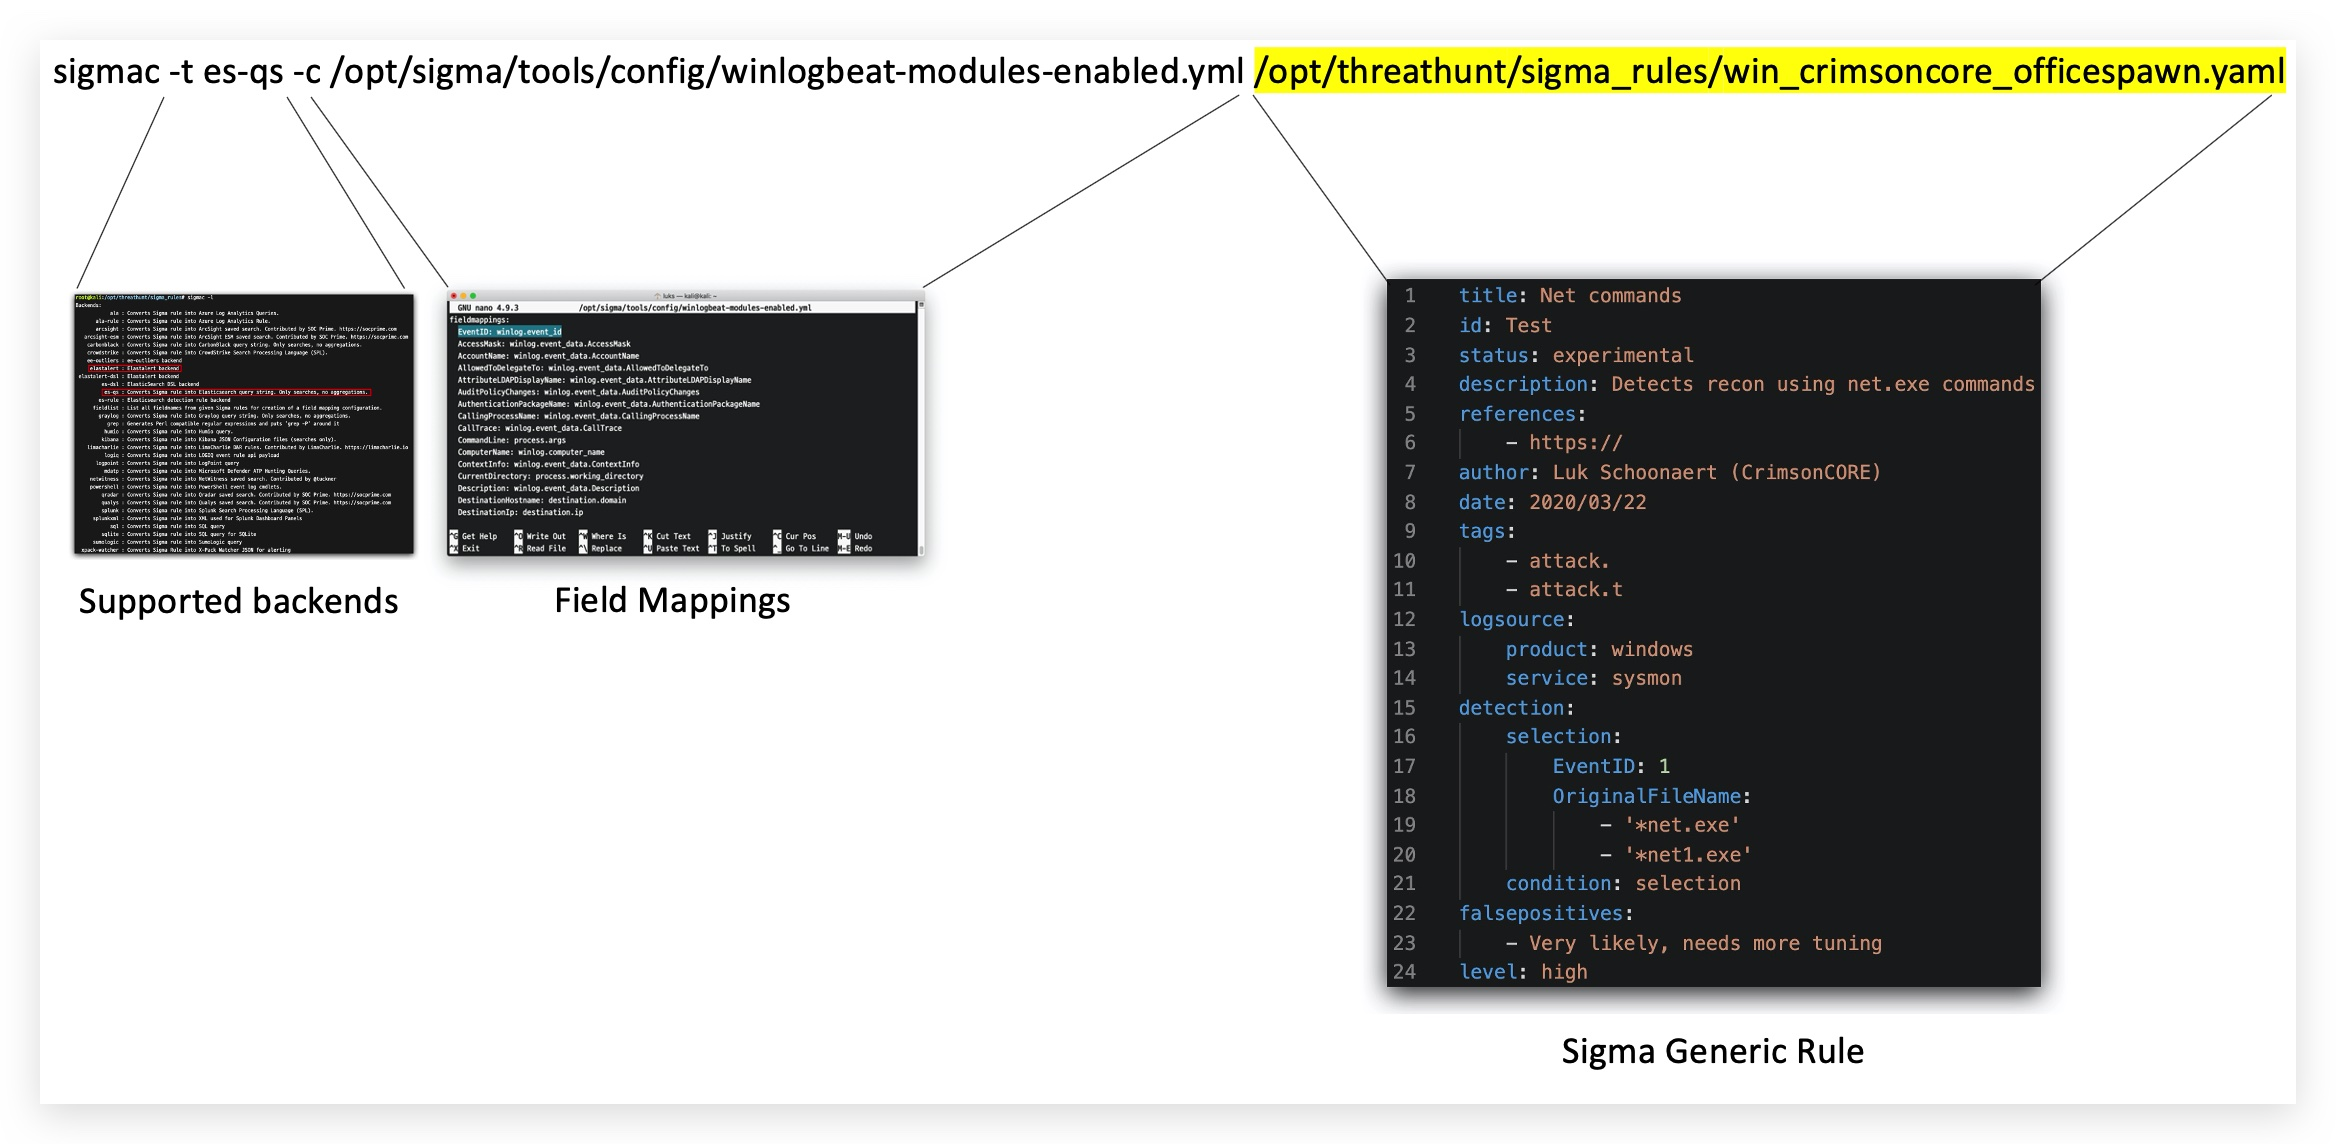
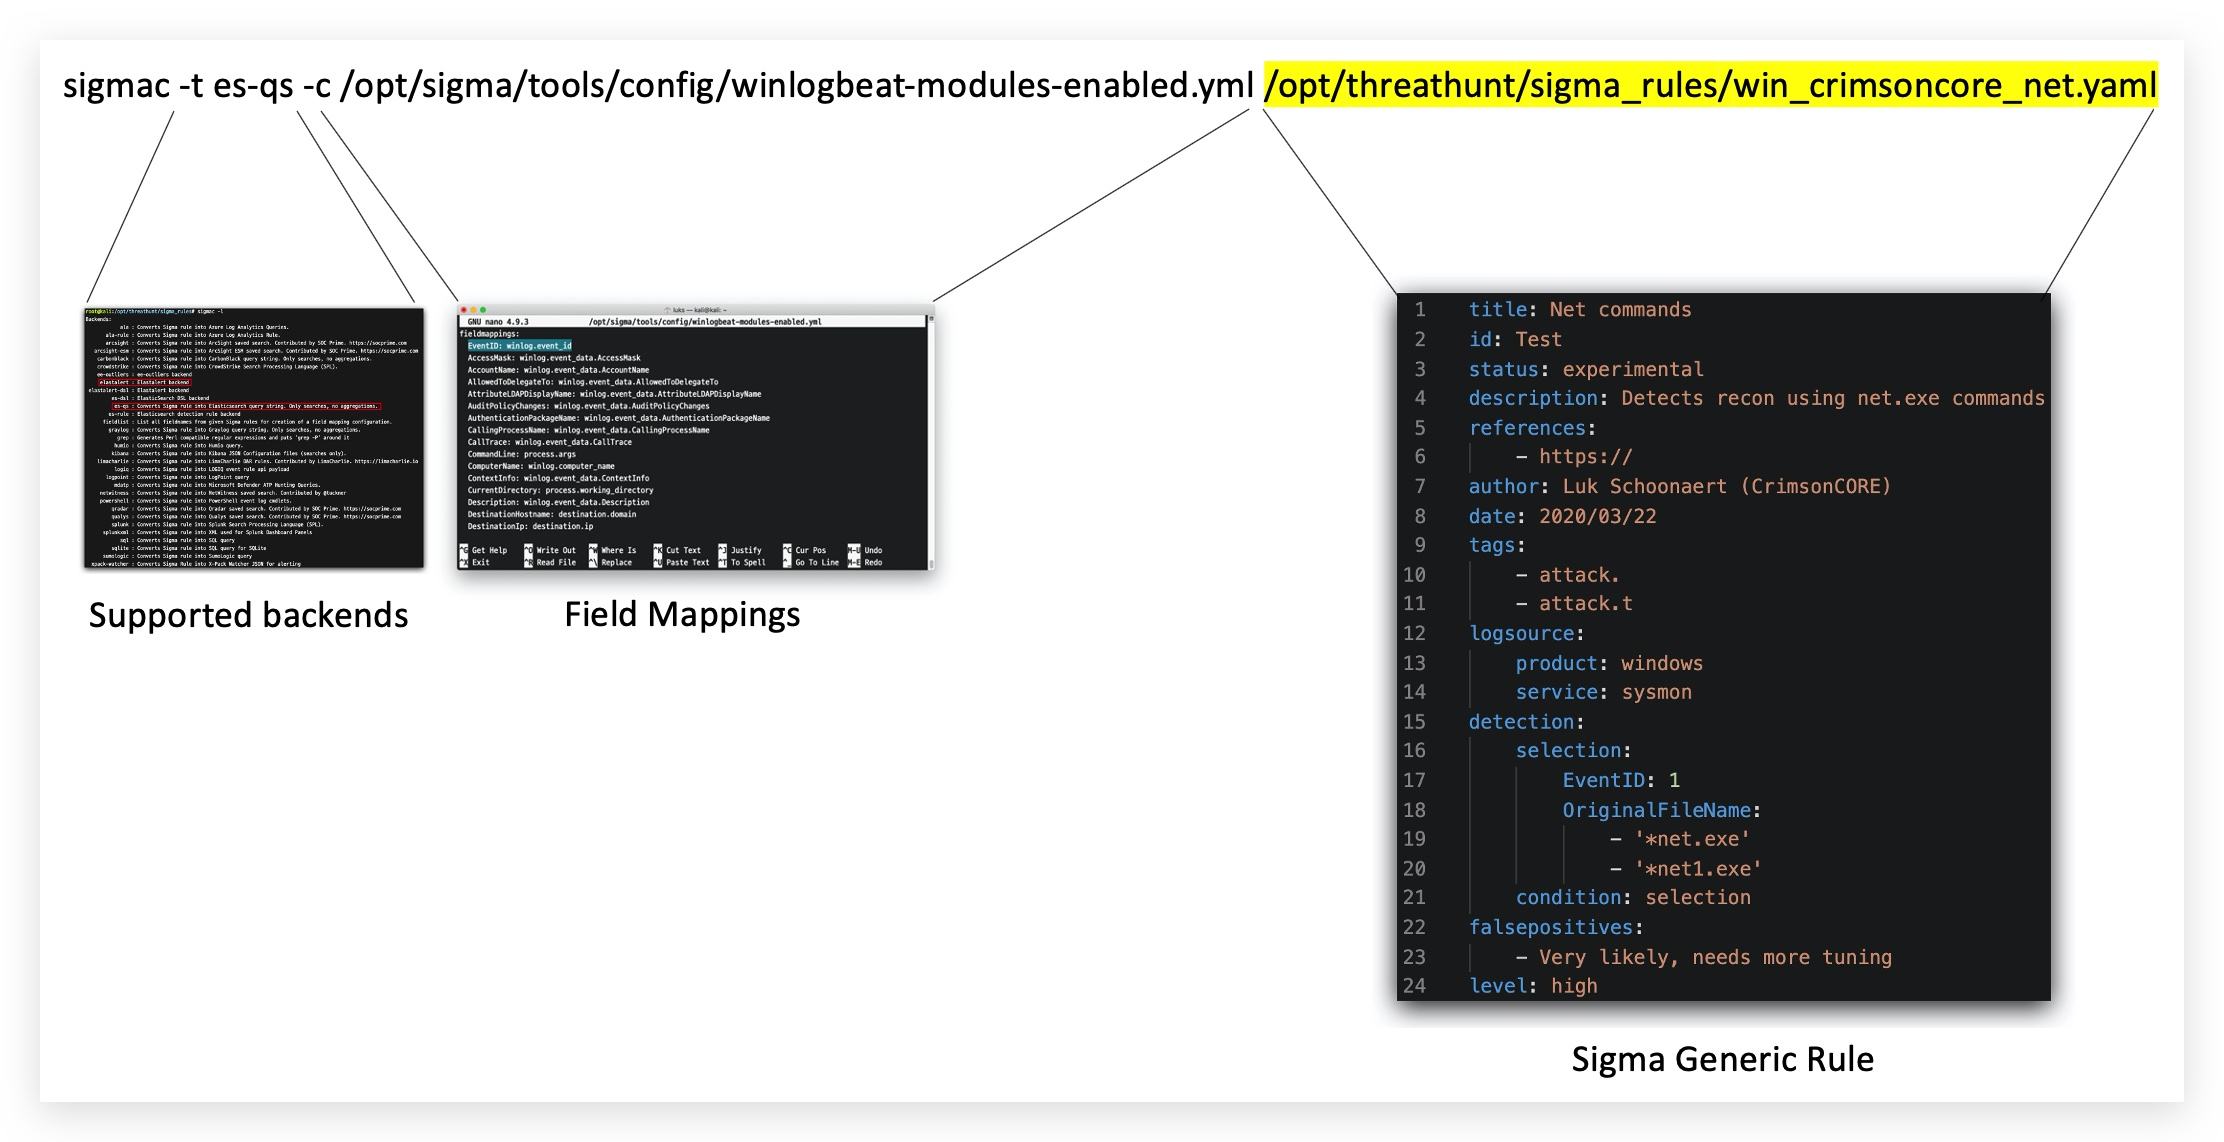
updates

Changed region(s): [[0.5895, 0.2145, 0.9308, 0.9501], [0.031, 0.1532, 0.4344, 0.5517], [0.031, 0.0306, 0.9928, 0.1532]]

diff --git a/src/2.3.2/chapter_2.3.2.md b/src/2.3.2/chapter_2.3.2.md
@@ -4,8 +4,8 @@
 
 ![Screenshot T1003](./assets/01-T1003.jpeg)
 
-
-
+1.0 DETECTING MIMIKATZ (LSASS INJECTION)
+----
 > **LOG SOURCES**:
 > - EID 10 (SYSMON) - Process Access
 
@@ -18,11 +18,14 @@
 Sigma rule generation:
 
 ```code
-sigmac -I -t es-qs -c /opt/sigma/tools/config/winlogbeat.yml /opt/threathunt/sigma_rules/win_crimsoncore_lsass_dump.yml 
+sigmac -I -t es-qs -c /opt/sigma/tools/config/winlogbeat-modules-enabled.yml /opt/threathunt/sigma_rules/win_crimsoncore_lsass_dump.yml
 ```
 
 Kibana Query
 
 ```code
-(winlog.channel:"Microsoft\-Windows\-Sysmon\/Operational" AND winlog.event_id:"10" AND winlog.event_data.TargetImage:"C\:\\windows\\system32\\lsass.exe" AND winlog.event_data.GrantedAccess:"0x1fffff" AND winlog.event_data.CallTrace.keyword:(*dbghelp.dll* OR *dbgcore.dll*))
+(winlog.channel:"Microsoft-Windows-Sysmon/Operational" AND winlog.event_id:"10" AND winlog.event_data.TargetImage: "C:\Windows\system32\lsass.exe" AND winlog.event_data.GrantedAccess:("0x1410" OR "0x1010"))
 ```
+
+2.0 DETECTING LSASS Process Dumping
+----

diff --git a/src/1.7/chapter_1.7.md b/src/1.7/chapter_1.7.md
@@ -82,6 +82,7 @@ So let's write our first simple Sigma rule for detecting net commands:
 nano /opt/threathunt/sigma_rules/win_crimsoncore_net.yaml
 ```
 
+
 copy/paste the following code, you can see here the OriginalFileName mapping is used, but it wasn't known in the default winlogbeat mapping as this is a rather new field in __sysmon__:
 
 ```yaml
@@ -110,6 +111,10 @@ falsepositives:
     - Very likely, needs more tuning
 level: high
 ```
+
+We'll now run sigma on this new rule template:
+
+![Screenshot](./assets/03-sigma_backend_pipe3.jpg)
 
 ```code 
 sigmac -t es-qs -c /opt/sigma/tools/config/winlogbeat-modules-enabled.yml /opt/threathunt/sigma_rules/win_crimsoncore_net.yaml
